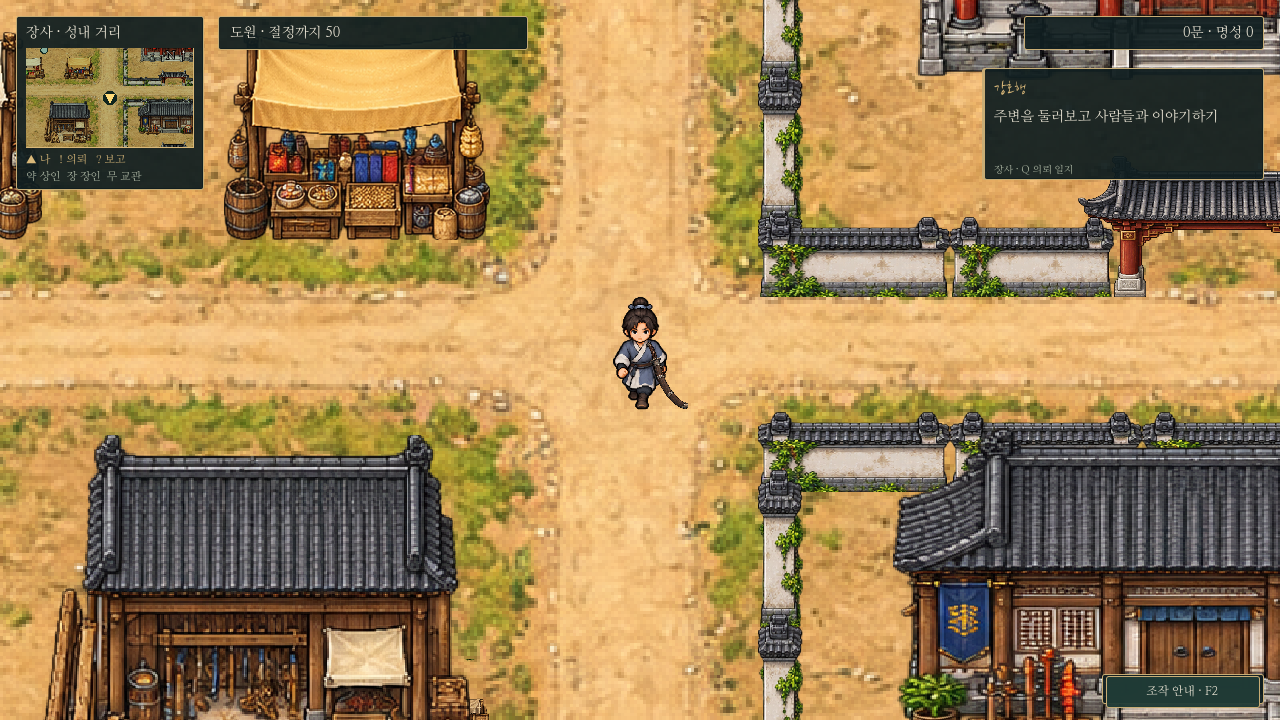
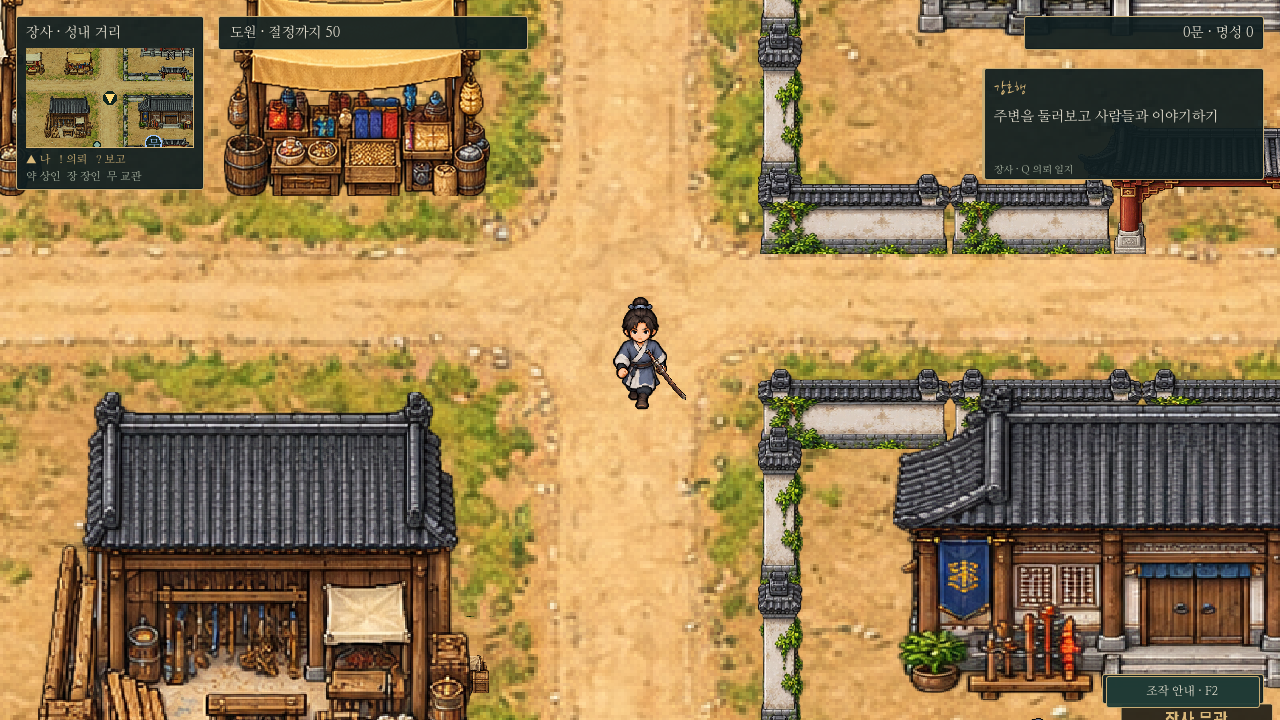
Refit carried dao sheath to existing thickback weapons and reduce size

diff --git a/docs/systems/equipment-appearance.md b/docs/systems/equipment-appearance.md
@@ -7,7 +7,7 @@ I 소지품에서 장착한 검·도·창·맨손을 탐험 캐릭터와 전투 
 ## 표시 방식
 
 - 검: 기존 검/검집이 있는 사방 보행 그림을 유지한다.
-- 도: 무기 없는 몸체에 넓고 휘어진 도집을 허리에 표시한다.
+- 도: 기존 후배도·단강도·중강도 아이콘을 참고한 두꺼운 칼등/넓은 몸체의 도집을 허리에 표시한다. 크게 말린 끝을 없애고 완만한 굽음/각진 끝으로 교체했다. 손잡이 포함 표시 높이는 몸체의60%에서45%로25% 줄였다. 별도 `sheathed_thickback_saber.png`를 사용한다.
 - 창: 탐험에서는 등에 비스듬히 메어 어깨 위로 창날이 보인다. 앞·옆에서는 몸이 창대 가운데를 가리고, 뒤에서는 창대와 고정 끈이 보인다. 보행 중 손을 따라 흔들리지 않는다. 전투에서는 기존처럼 손에 창을 든다.
 - 맨손: 검과 검집을 제거한 몸체만 표시한다.
 - 몸체와 별개로 그리는 도/창은 발 교차 변형에 휘지 않는다. 캐릭터 전체는 기존 발밑 Y정렬/건물 가림을 따른다. 발밑 충돌, 속도, 몸체 크기는 유지한다.
@@ -17,6 +17,8 @@ I 소지품에서 장착한 검·도·창·맨손을 탐험 캐릭터와 전투 
 장착 변경과 저장 불러오기는 `battle.weapon_equipped` 신호를 통해 탐험 몸체에도 반영한다. 별도의 외형 저장 필드는 추가하지 않고 기존 장착 아이템 ID에서 복원한다. 새 여정은 기본 검 외형으로 돌아간다.
 
 ## 실제 플레이 화면
+
+도집 교체 후 실제 I 장착/WASD 이동 캡처: [앞](../../godot/screenshots/saber-refit-live-down.png) · [뒤](../../godot/screenshots/saber-refit-live-up.png) · [왼쪽](../../godot/screenshots/saber-refit-live-left.png) · [오른쪽](../../godot/screenshots/saber-refit-live-right.png). 창/전투 그림은 유지한다.
 
 소지품에서 실제 창 장착 후 WASD 이동으로 재확인한 새 캡처: [뒤](../../godot/screenshots/spear-back-live-up.png) · [앞](../../godot/screenshots/spear-back-live-down.png) · [왼쪽](../../godot/screenshots/spear-back-live-left.png) · [오른쪽](../../godot/screenshots/spear-back-live-right.png). 기존 비교 파일과 다른 이름으로 저장해 구별한다. 뒤에서는 창대/고정 끈, 앞/옆에서는 몸 뒤 가림을 확인했다. `capture_spear_back_live.gd`로 재생성한다.
 
@@ -28,6 +30,8 @@ I 소지품에서 장착한 검·도·창·맨손을 탐험 캐릭터와 전투 
 | 맨손 | [화면](../../godot/screenshots/equipment-field-none.png) | [화면](../../godot/screenshots/equipment-battle-none.png) |
 
 ## 미술 자료와 검증
+
+교체 도집은 기존 `assets/icons/equipment.png`의 도3종을 참조해 생성했다. 원본: `/workspace/generated_images/exec-727c56f4-f0dc-47bc-8174-82184394a6a5.png`. 기존 합본 시트의 도집은 보존하되 런타임에서는 새 전용 PNG를 연결한다. 알파 경계/칼집 입구 위치만 메타데이터로 등록하며 픽셀은 편집하지 않았다.
 
 `hero_walk_unarmed.png`는 기존 16개 보행 자세에서 검/검집을 제거한 생성 편집 그림이다. `carried_weapons.png`는 별도 생성한 투명 도집/창 그림이다. 생성 원본은 작업 환경의 `/workspace/generated_images/exec-7b015936-334f-4b4e-afa6-69a01ca91c24.png`, `/workspace/generated_images/exec-419595fe-c573-4246-ab9a-c84a80f6046c.png`에 보관했다. 프레임 JSON은 알파 영역을 읽어 발밑/머리 위치를 맞춘 메타데이터이며 픽셀을 다시 그리지 않았다.
 

diff --git a/docs/CLI_HANDOFF.md b/docs/CLI_HANDOFF.md
@@ -9,7 +9,7 @@
 
 ## 현재 구현
 
-- **장착 무기 외형 동기화:** [방향별/전투 실제 화면](systems/equipment-appearance.md). 검·도·창·맨손을 탐험과 전투에 함께 표시하고 I 장착/저장 불러오기/새 여정/전투 진입에 반영. 도·창은 검 없는 몸체+별도 장비, 탐험 창은 등 뒤 대각선/고정 끈으로 휴대하고 전투 창 자세는 유지, 기존 보행/충돌/속도·대화 초상화·전투 수치 유지. 같은 무기 종류의 등급별 외형은 공유한다.
+- **장착 무기 외형 동기화:** [방향별/전투 실제 화면](systems/equipment-appearance.md). 검·도·창·맨손을 탐험과 전투에 함께 표시하고 I 장착/저장 불러오기/새 여정/전투 진입에 반영. 도·창은 검 없는 몸체+별도 장비, 탐험 도집은 기존 도3종을 참조한 완만한 형태/기존보다25% 작은 전용 그림, 창은 등 뒤 대각선/고정 끈으로 휴대하고 전투 자세는 유지, 기존 보행/충돌/속도·대화 초상화·전투 수치 유지. 같은 무기 종류의 등급별 외형은 공유한다.
 
 - **1440p/배율 점검:** [네이티브 캡처·1:1 비교·한계](ui/resolution-audit.md).6개 창 크기/대화 크기3종/150개 UI 배치 통과,1440p 창·전체 화면 출력 확인. 무창 바닥의 원본1px≈10.1화면px 문제에 바닥 전용 확대 보정+생성 미세 재질 적용. 원본PNG/구조/충돌/시야 유지, 캐릭터·건물·UI/0장에는 전역 흐림 없음. 원화 정보량 한계는 보고서에 명시.
 
